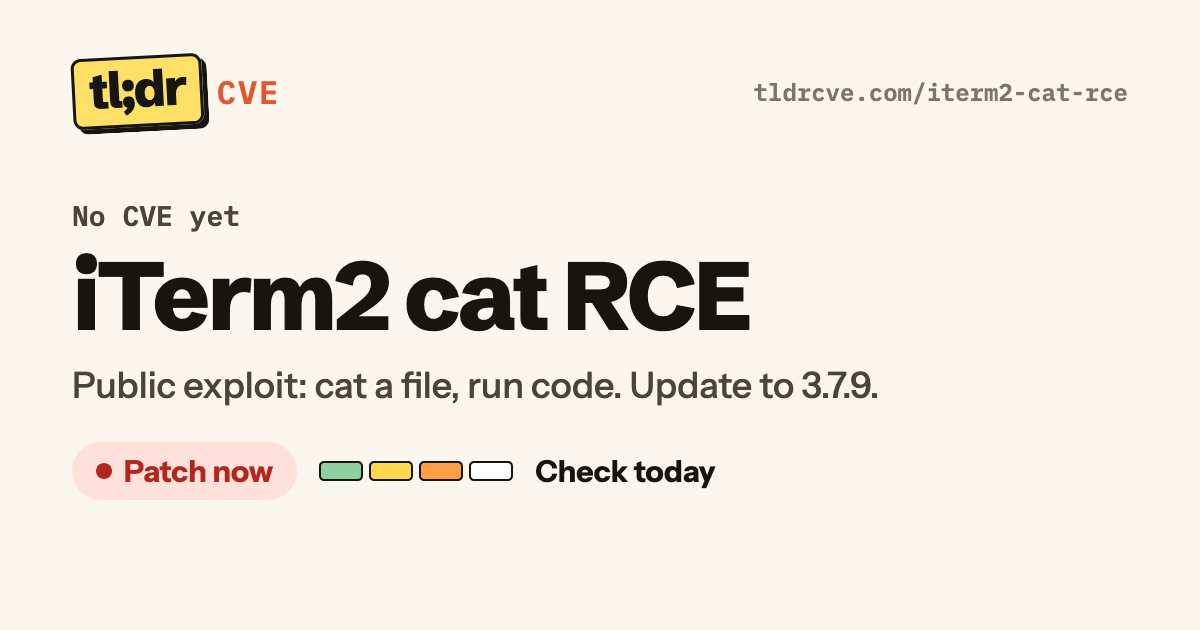
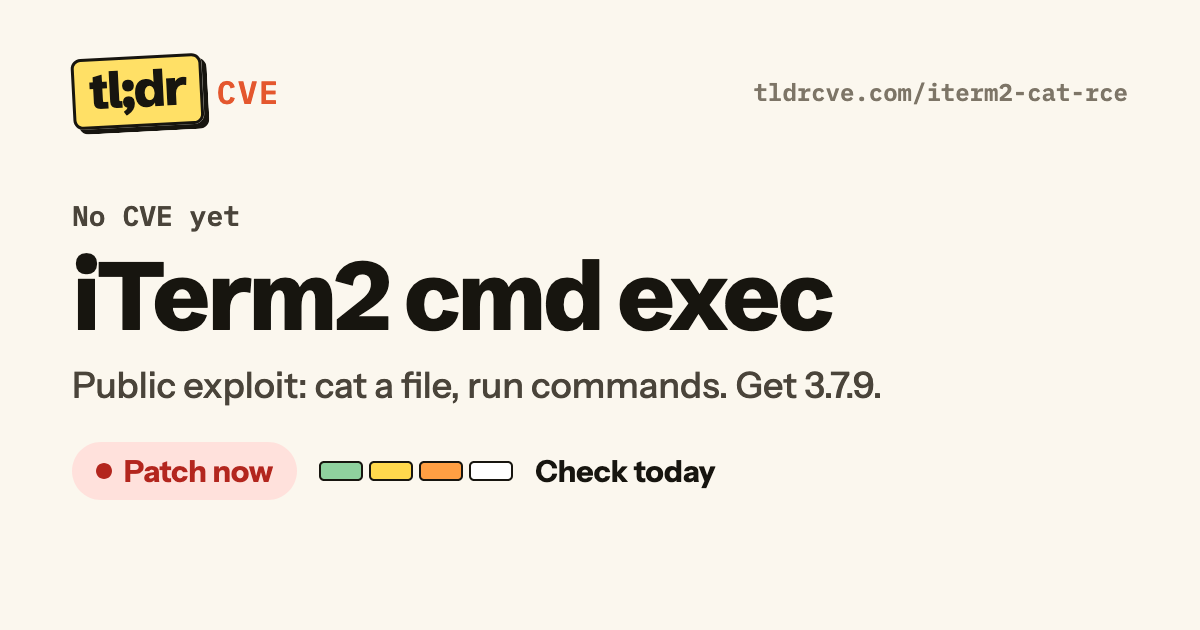
iTerm2: rename to command execution (#26)
* iTerm2: rename to command execution; loaded-terms rule

Page name "iTerm2 cmd exec" (was "iTerm2 cat RCE"): the researcher
retitled the write-up Arbitrary Command Execution, since the user has to
display the attacker's file. Keeps the URL and adds "rce" and the new
title as aliases; tile line says "run commands"; summary explains the
rename with the researcher's post as a source. AGENTS.md: loaded terms
like RCE follow common usage, with the source's term kept as an alias.

* iTerm2 rename: verifier fixes

Source 9 says what the post says; the commit that retitled the write-up
backs "from RCE"; cite moved off the trigger condition; changelog
reasoning is ours; affected range note updated (researcher now gives
3.6.1 to 3.7.8); AGENTS.md covers vendor titles that say RCE.

---------

Changed region(s): [[0.37, 0.3921, 0.7092, 0.5429], [0.4625, 0.573, 0.74, 0.6333]]

diff --git a/AGENTS.md b/AGENTS.md
@@ -120,6 +120,7 @@ When a vulnerability gets attention but doesn't qualify yet, record it instead o
   - `watch`: getting attention, but too little is known to act on (no details, no fix, no exploit). Never a softer `now`. The page must say what would change the verdict.
 - **Writing:**
   - Plain English and short. No hype words unless quoting an official rating.
+  - Loaded terms (RCE, zero-day, wormable) follow common usage, not just the source's wording. RCE means an attacker reaches the target over the network without the user doing something like opening a file; if the user has to open or display something, call it code or command execution. Keep the source's term as an alias so people can still find the page. When a vendor's official title says RCE, quote it as the vendor's wording.
   - Absolute dates only ("19 Nov 2026").
   - Mark anything still expected as `pending` with an expected date.
 
